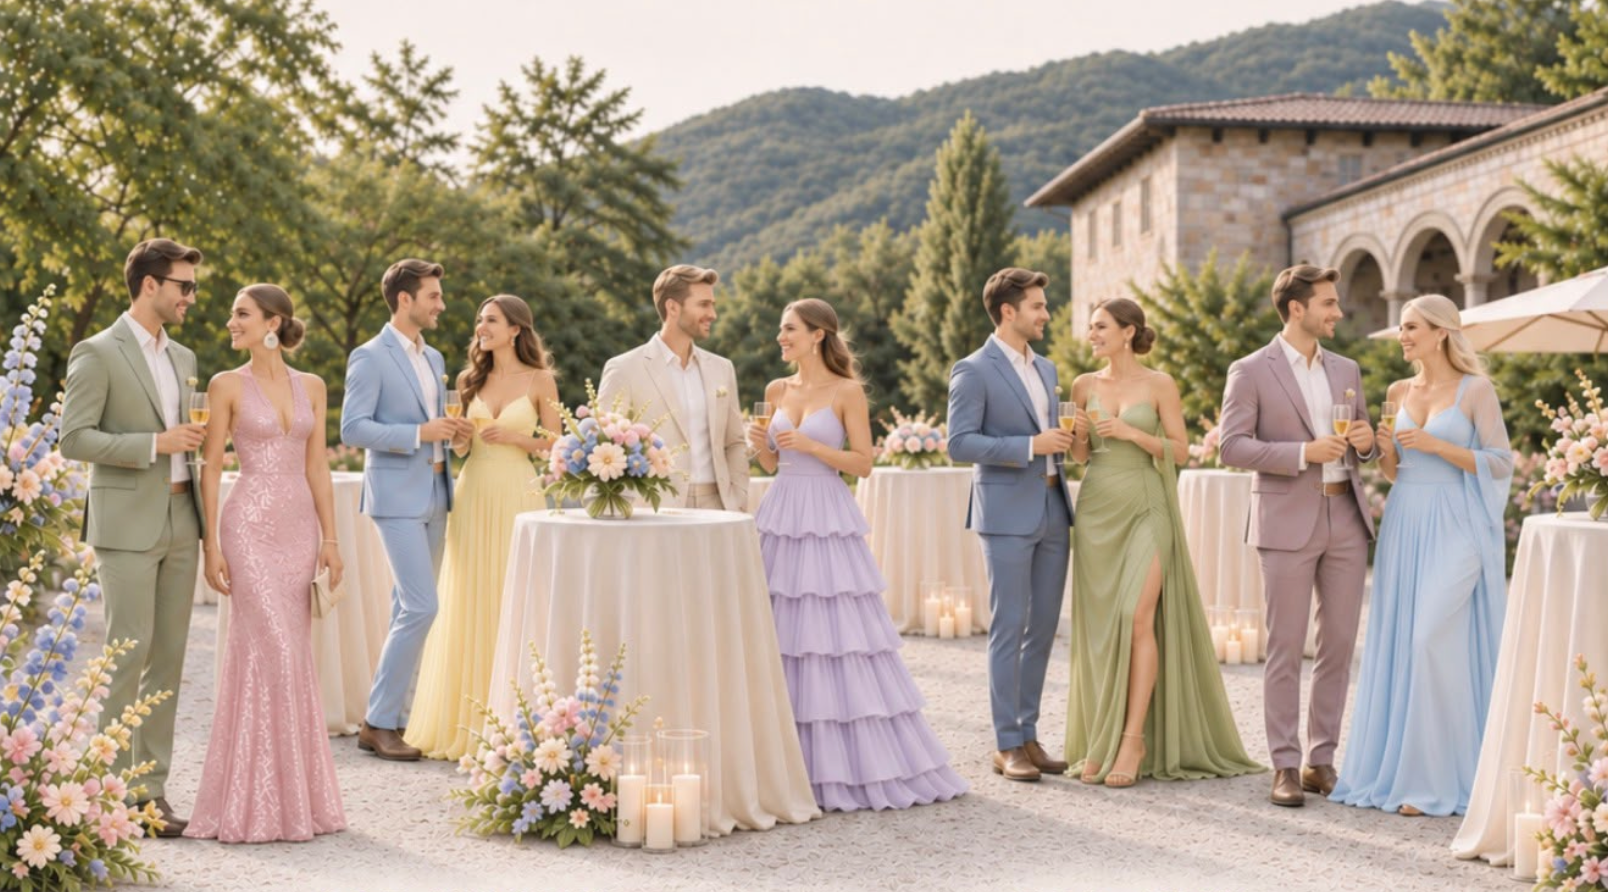
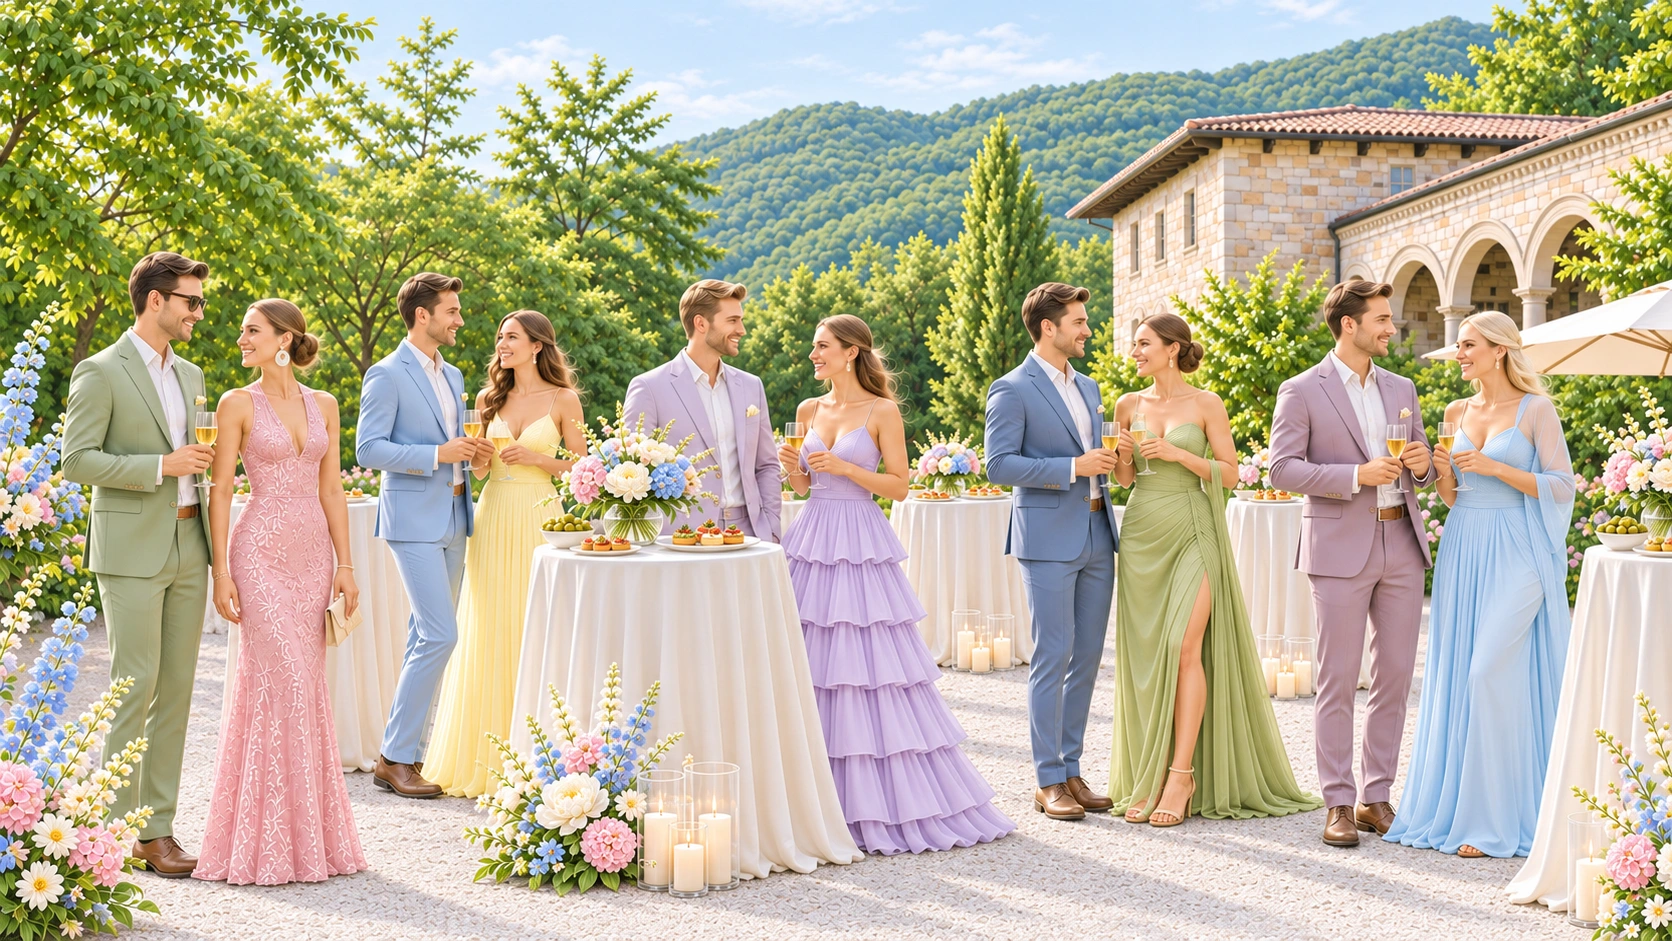
fix: brighten and blend dress code artwork

diff --git a/apps/pastel-garden/src/styles.css b/apps/pastel-garden/src/styles.css
@@ -581,6 +581,9 @@ h2 {
 .wedding-day {
   margin-top: 24px;
 }
+.dress-code-section {
+  --artwork-bleed: clamp(1.5rem, 8vw, 5rem);
+}
 .dress-code-copy {
   width: 100%;
   max-width: 44rem;
@@ -595,10 +598,10 @@ h2 {
 }
 .dress-code-artwork {
   display: block;
-  width: 100%;
+  width: calc(100% + 2 * var(--artwork-bleed));
   height: auto;
-  border-radius: 45% 45% 0 0 / 12% 12% 0 0;
-  mask-image: linear-gradient(#000 88%, transparent);
+  margin-inline: calc(-1 * var(--artwork-bleed));
+  mask-image: linear-gradient(transparent, #000 5%, #000 94%, transparent);
 }
 .dress-code-attire {
   display: grid;

diff --git a/apps/pastel-garden/src/dress-code.tsx b/apps/pastel-garden/src/dress-code.tsx
@@ -11,8 +11,8 @@ export function DressCode() {
           className="dress-code-artwork"
           src="./media/rizzoli-dress-code.webp"
           alt="Guests in pastel dresses and suits around flower-decorated cocktail tables in a garden"
-          width="1608"
-          height="892"
+          width="1672"
+          height="941"
           loading="lazy"
         />
         <div className="dress-code-attire">
